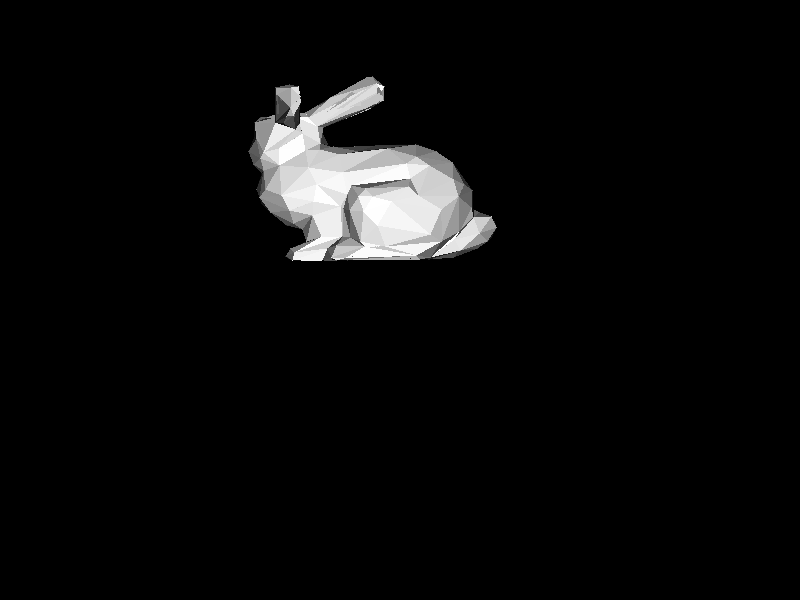
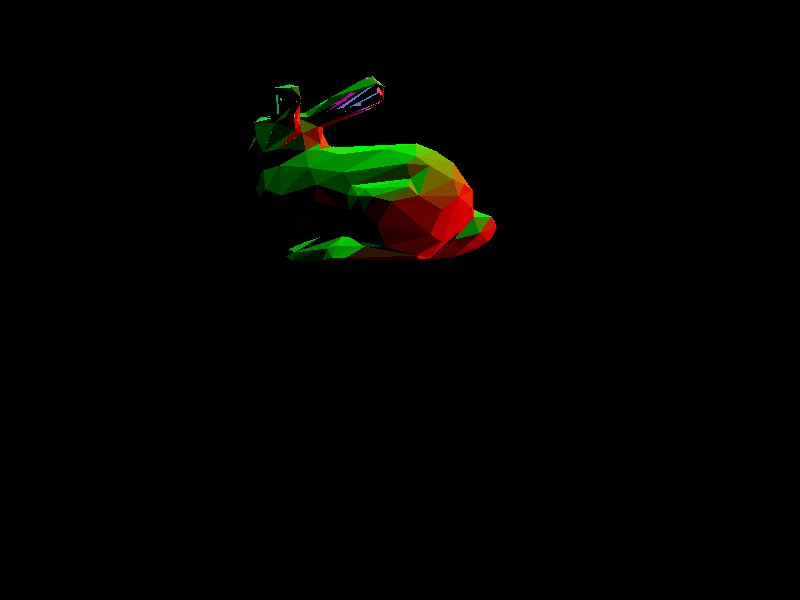
Now using an array rather than a vector. Added some normal stuff, but it's only semi-working.

Changed region(s): [[0.3125, 0.12, 0.625, 0.45]]

diff --git a/src/progress.h b/src/progress.h
@@ -2,22 +2,39 @@
 #include <sys/time.h>
 #include <sys/ioctl.h>
 
-// Determines the length of the progress bar. If your terminal is being overrun, try decreasing this.
+// Determines the length of the progress bar. If your terminal is being
+// overrun, try decreasing this.
 #define BAR_LEN 20
 
-void printProgress(struct timeval startTime, int d, int total, int freq)
+struct timeval startTime;
+
+/**
+ * Sets up timekeeping.
+ */
+void initProgress()
+{
+   gettimeofday(&startTime, NULL);
+}
+
+/**
+ * Prints the progress bar if the count is at an update interval.
+ * @param d the current count.
+ * @param total the final count.
+ * @param freq the number of ticks before an update.
+ */
+void printProgress(int d, int total, int freq)
 {
    // Initialize timekeeping variables.
    float timeLeft;
    float dt = 0;
    int seconds, useconds;
-   int min, sec, ms;
-   int dMin, dSec, dMs;
-   min = sec = ms = dMin = dSec = dMs = 0;
+   int hour, min, sec, ms;
+   int dHour, dMin, dSec, dMs;
+   hour = min = sec = ms = dHour = dMin = dSec = dMs = 0;
 
    // Set padding for strings to their length (minus one for null
    // terminating character) plus a specified value.
-   int strPad = 3;
+   int strPad = 5;
    int pad = 4;
 
    // Get terminal width.
@@ -27,15 +44,15 @@ void printProgress(struct timeval startTime, int d, int total, int freq)
 
    // Length of time string.
    int timeLen = 8;
-   // Length of percent string.
-   int percentLen = 7;
+   // Maximum length of percent string.
+   int maxPercentLen = 7;
 
    int maxBarLen = (pad * 2 + strPad * 2) + ((int)strlen("elapsed:") - 1)
-      + ((int)strlen("eta:") - 1) + (timeLen * 2) + (percentLen + 1)
+      + ((int)strlen("eta:") - 1) + (timeLen * 2) + (maxPercentLen + 1)
       + (BAR_LEN + 2) + 1;
    int midBarLen = (pad + (int)strlen("eta:") - 1 + strPad + timeLen
-         + (percentLen + 1) + 1);
-   int minBarLen = percentLen + 1;
+         + (maxPercentLen + 1) + 1);
+   int minBarLen = maxPercentLen + 1;
 
    // bool fullProgressEnabled = maxBarLen > BAR_LEN;
    bool fullProgressEnabled = maxBarLen < termW;
@@ -51,14 +68,24 @@ void printProgress(struct timeval startTime, int d, int total, int freq)
       useconds = (int)curTime.tv_usec - (int)startTime.tv_usec;
       dt = (float)(((seconds) * 1000 + useconds/1000.0) + 0.5);
       float percent = (float)(d + 1) / (float)total;
+      int percentLen = 3;
+      if (percent < 1.f)
+         percentLen = 2;
+      if (percent < .1f)
+         percentLen = 1;
+      percentLen += 1; // Decimal point.
+      percentLen += 2; // Decimal digits.
+      percentLen += 1; // Percent symbol.
 
       timeLeft = ((float)dt / percent - (float)dt) / 1000.0f;
 
       // Calculate time data;
-      min = (int)timeLeft / 60;
+      hour = (int)timeLeft / 3600;
+      min = (int)timeLeft % 3600 / 60;
       sec = (int)timeLeft % 60;
       ms = (int)(timeLeft * 100) % 60;
 
+      dHour = (int)(dt / 1000) / 3600;
       dMin = (int)(dt / 1000) / 60;
       dSec = (int)(dt / 1000) % 60;
       dMs = (int)(dt / 10) % 60;
@@ -84,26 +111,26 @@ void printProgress(struct timeval startTime, int d, int total, int freq)
          progress += "]";
 
          // Print data.
-         printf("\r%s%*s%02d:%02d:%02d",
-               "elapsed:", strPad, "", dMin, dSec, dMs);
-         printf("%*s%s%*s%02d:%02d:%02d",
-               pad, "", "eta:", strPad, "", min, sec, ms);
+         printf("\r  %s%*s%3d:%02d:%02d.%02d",
+               "elapsed:", strPad, "", dHour, dMin, dSec, dMs);
+         printf("%*s%s%*s%3d:%02d:%02d:%02d",
+               pad, "", "eta:", strPad, "", hour, min, sec, ms);
          // Display progress bar.
-         printf("%*s%*.2f%% %s",
-               pad, "", percentLen - 2, percent * 100.0f, progress.c_str());
+         printf("%*s %*.2f%% %s\r",
+               pad, "", percentLen - 3, percent * 100.0f, progress.c_str());
       }
       else if (midProgressEnabled)
       {
          // Print the percent and the ETA.
-         printf("\r%-*s %02d:%02d:%02d",
+         printf("\r  %-*s %02d:%02d:%02d",
                (int)strlen("eta:") - 1 + strPad, "eta:", min, sec, ms);
-         printf("%*s%.2f%%",
+         printf("%*s%.2f%%\r",
                pad, "", percent * 100.0f);
       }
       else if (minProgressEnabled)
       {
          // Print only the percent.
-         printf("\r%.2f%%", percent * 100.0f);
+         printf("\r  %.2f%%\r", percent * 100.0f);
       }
       /*
          else
@@ -115,5 +142,10 @@ void printProgress(struct timeval startTime, int d, int total, int freq)
 
       // Flush stdout to print stats.
       fflush(stdout);
+   }
+   // Print a newline after the last update.
+   if (d == total - 1)
+   {
+      printf("\n");
    }
 }

diff --git a/src/main.cpp b/src/main.cpp
@@ -37,15 +37,16 @@ int width = DEF_W;
 int height = DEF_H;
 vector<point_t *> pointList;
 vector<tri_t *> triList;
+tri_t **triArray;
 vec3 light (0, 0, 1);
 vec_t scale = 1.f;
 bool showProgress = DEF_PROGRESS;
-struct timeval startTime;
 
 void convertCoords();
+void vectorToArray();
 void printCoords();
 void rasterize(string outName);
-void rasterizePixel(vector<tri_t *> *tris, int x, int y, vec_t *z,
+void rasterizePixel(tri_t **tris, int size, int x, int y, vec_t *z,
       vec3 *color, string outName);
 point_t * findPt(int ndx);
 void readFile(const char* filename);
@@ -100,7 +101,7 @@ int main(int argc, char** argv)
    }
    
    // Set up timekeeping.
-   gettimeofday(&startTime, NULL);
+   initProgress();
 
    // Make sure a file to read is specified
    if (inputSpecified)
@@ -114,6 +115,8 @@ int main(int argc, char** argv)
 
       // Convert triangle coordinates from world to screen.
       convertCoords();
+
+      vectorToArray();
 
       // Go SPEEDRACER go!
       rasterize(outFile);
@@ -132,12 +135,24 @@ void convertCoords()
    }
 }
 
+void vectorToArray()
+{
+   triArray = new tri_t *[triList.size()];
+   for (int tri = 0; tri < (int)triList.size(); tri++)
+   {
+      triArray[tri] = triList[tri];
+   }
+}
+
 void rasterize(string outName)
 {
    // Initialize the image.
    Image *im = new Image(height, width, outName);
    zbuffer *zbuf = new zbuffer(width, height);
    colorbuffer *cbuf = new colorbuffer(width, height);
+
+   // Set the frequency of ticks to update every .01%, if possible.
+   int tick = max(width * height / 10000, 100);
 
    // For each pixel in the image:
    for (int x = 0; x < width; x++)
@@ -147,15 +162,12 @@ void rasterize(string outName)
          vec_t *z = zbuf->data[x][y];
          vec3 *color = &cbuf->data[x][y];
          // Rasterize the current pixel.
-         rasterizePixel(&triList, x, y, z, color, outName);
+         rasterizePixel(triArray, (int)triList.size(), x, y, z, color, outName);
 #ifndef _CUDA
-         // Print out progress bar.
          if (showProgress)
          {
-            // Set the frequency of ticks to update every .01%, if possible.
-            int tick = max(width * height / 10000, 100);
-            printProgress(startTime, x * height + y,
-                  width * height, tick);
+            // Print the progress bar.
+            printProgress(x * height + y, width * height, tick);
          }
 #endif
       }
@@ -169,26 +181,33 @@ void rasterize(string outName)
    delete zbuf;
 }
 
-void rasterizePixel(vector<tri_t *> *tris, int x, int y, vec_t *z,
+void rasterizePixel(tri_t **tris, int size, int x, int y, vec_t *z,
       vec3 *color, string outName)
 {
-   for (int triNdx = 0; triNdx < (int)tris->size(); triNdx++)
+   for (int triNdx = 0; triNdx < size; triNdx++)
    {
-      tri_t *tri = tris->at(triNdx);
+      tri_t *tri = tris[triNdx];
       // Check for intersection.
       vec_t t = -1.f;
-      if (tri->hit(x, y, &t))
+      vec3 bary;
+      if (tri->hit(x, y, &t, &bary))
       {
          // Check the z-buffer to see if this should be written.
          if (t < *z)
          {
             // Calculate the normal.
-            vec3 ab = tri->pt[0]->toF3World() - tri->pt[1]->toF3World();
-            vec3 ac = tri->pt[0]->toF3World() - tri->pt[2]->toF3World();
-            vec3 normal = ab.cross(ac);
-            normal.normalize();
+            vec3 *triNormal = tri->normal;
+            vec3 *normal;
+            if (tri->perVert)
+            {
+               normal = tri->getNormal(&bary);
+            }
+            else
+            {
+               normal = triNormal;
+            }
             // Calculate the color (N dot L).
-            vec_t colorMag = normal.dot(light);
+            vec_t colorMag = normal->dot(light);
             if (colorMag < 0)
             {
                colorMag *= -1.f;
@@ -197,8 +216,19 @@ void rasterizePixel(vector<tri_t *> *tris, int x, int y, vec_t *z,
             colorMag = max((vec_t)0.f, min(colorMag, (vec_t)1.f));
             // Write to color buffer.
             color->v[0] = color->v[1] = color->v[2] = colorMag;
+            /*
+            for (int i = 0; i < 3; i++)
+            {
+               color->v[i] = normal->v[i];
+            }
+            */
             // Write to z-buffer.
             *z = t;
+            // Clean up if a new normal vector was created.
+            if (tri->perVert)
+            {
+               delete normal;
+            }
          }
       }
    }

diff --git a/src/tri_t.h b/src/tri_t.h
@@ -10,23 +10,65 @@
 struct tri_t
 {
    point_t **pt;
+   vec3 *normal;
+   bool perVert;
 
    tri_t()
    {
+      perVert = false;
       pt = new point_t*[3];
+      if (perVert)
+         normal = new vec3();
+      else
+         normal = new vec3[3];
+      genNormal();
    }
 
    tri_t(point_t *_p1, point_t *_p2, point_t *_p3)
    {
+      perVert = false;
       pt = new point_t*[3];
       pt[0] = _p1;
       pt[1] = _p2;
       pt[2] = _p3;
+      if (perVert)
+         normal = new vec3();
+      else
+         normal = new vec3[3];
+      genNormal();
    }
 
    ~tri_t()
    {
       delete [] pt;
+   }
+
+   inline void genNormal()
+   {
+      if (!perVert)
+      {
+         // Calculate the normal.
+         vec3 ab = pt[0]->toF3World() - pt[1]->toF3World();
+         vec3 ac = pt[0]->toF3World() - pt[2]->toF3World();
+         *normal = ab.cross(ac);
+         normal->normalize();
+      }
+      else
+      {
+         normal[0] = vec3(1.f, 0.f, 0.f);
+         normal[1] = vec3(0.f, 1.f, 0.f);
+         normal[2] = vec3(0.f, 0.f, 1.f);
+      }
+   }
+
+   inline vec3 * getNormal(vec3 *bary)
+   {
+      vec3 *ret = new vec3();
+      for (int i = 0; i < 3; i++)
+      {
+         ret->v[i] = normal->v[i] * bary->v[i];
+      }
+      return ret;
    }
 
    inline void w2p(int w, int h)
@@ -37,7 +79,7 @@ struct tri_t
       }
    }
 
-   bool hit(int x, int y, vec_t *t)
+   bool hit(int x, int y, vec_t *t, vec3 *bary = NULL)
    {
       bool hit = true;
 
@@ -101,6 +143,12 @@ struct tri_t
       {
          *t = bT * pt[0]->coords.v[2] + bBeta * pt[1]->coords.v[2] + bGamma *
             pt[2]->coords.v[2];
+         if (bary)
+         {
+            bary->v[0] = bT;
+            bary->v[1] = bBeta;
+            bary->v[2] = bGamma;
+         }
       }
       return hit;
    }
